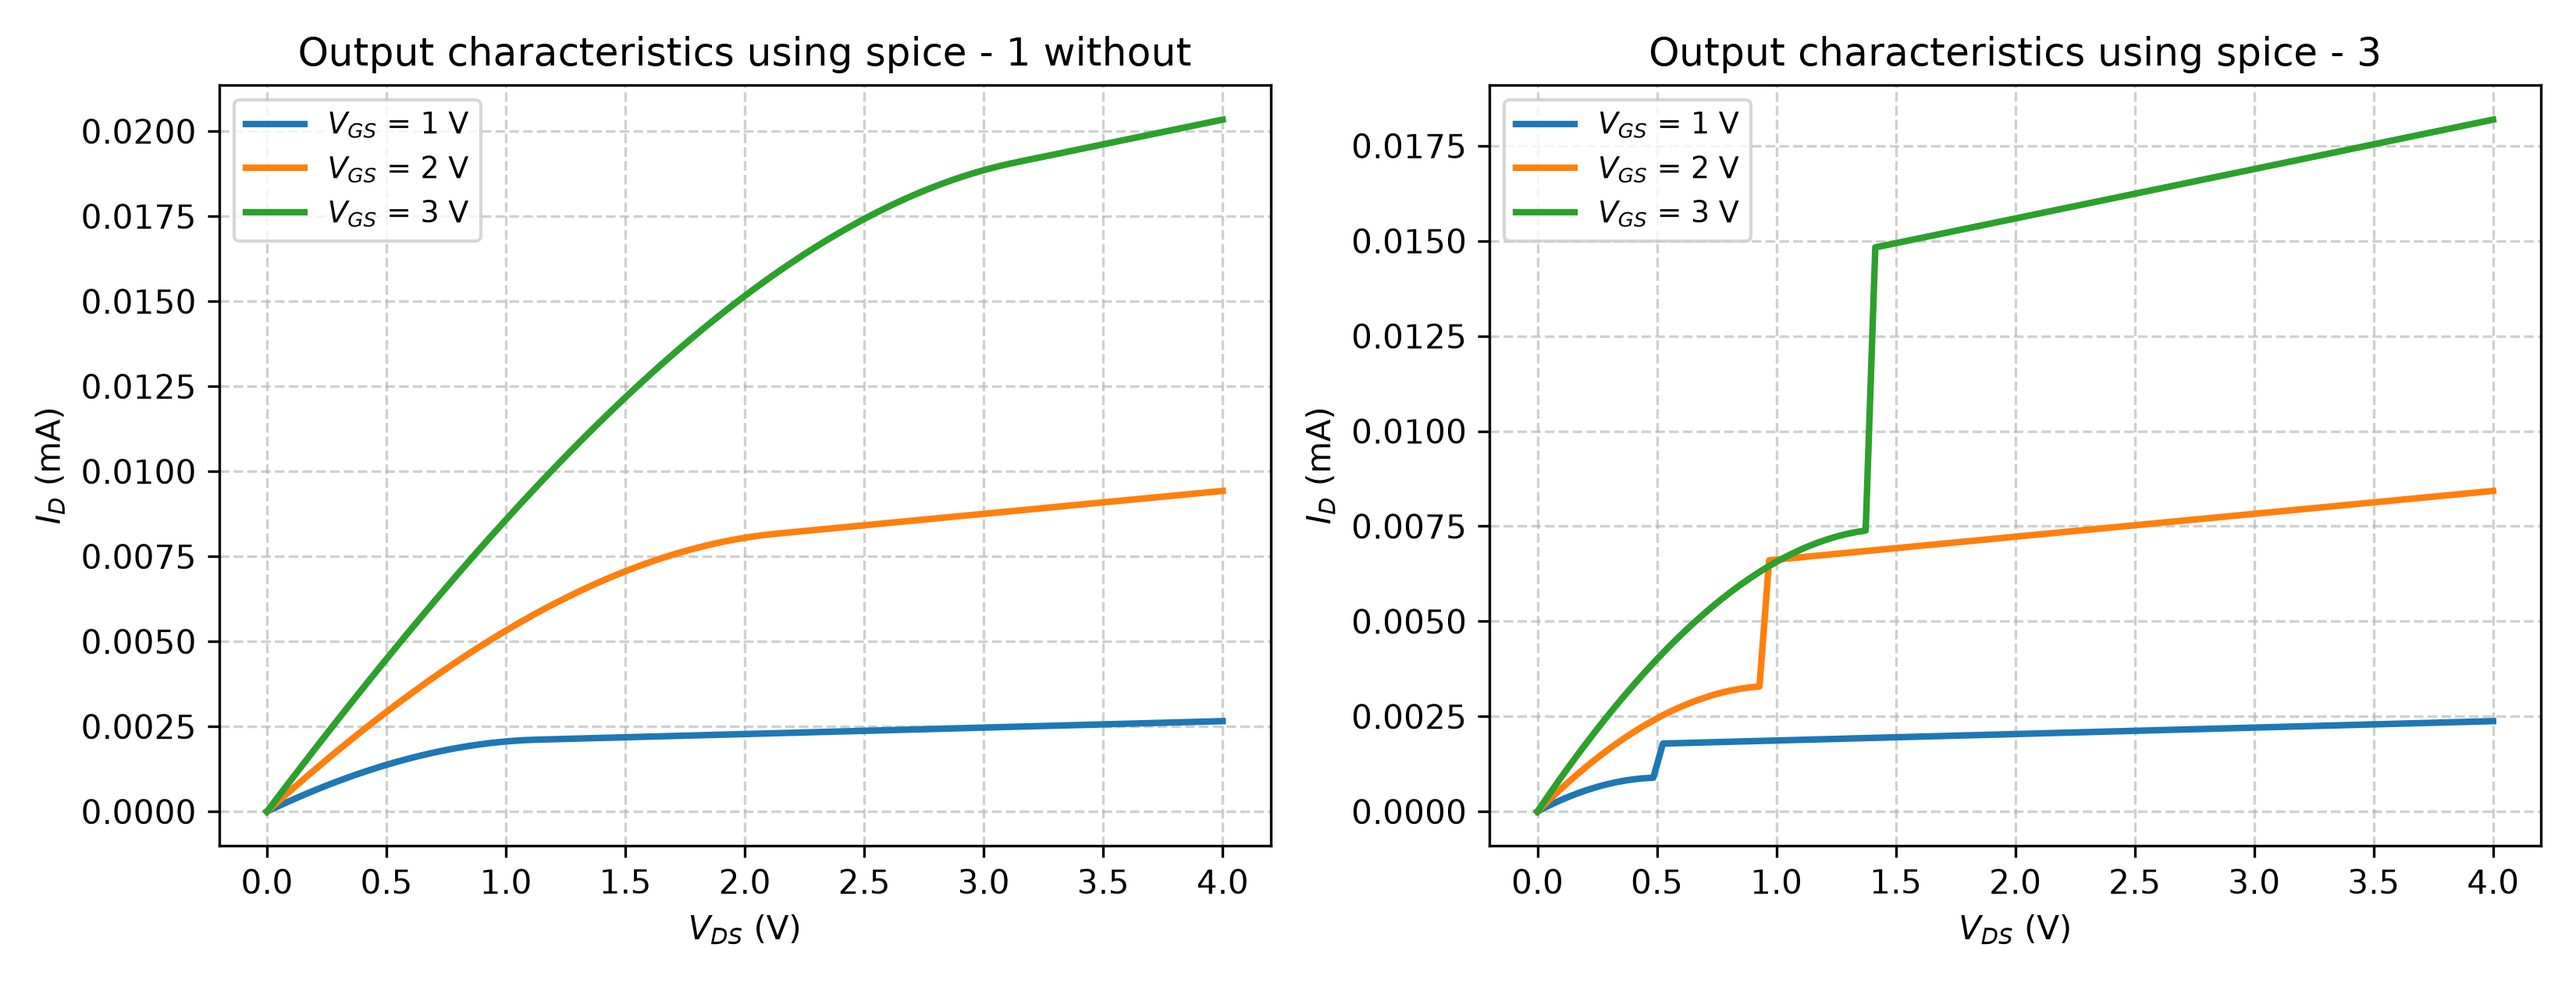
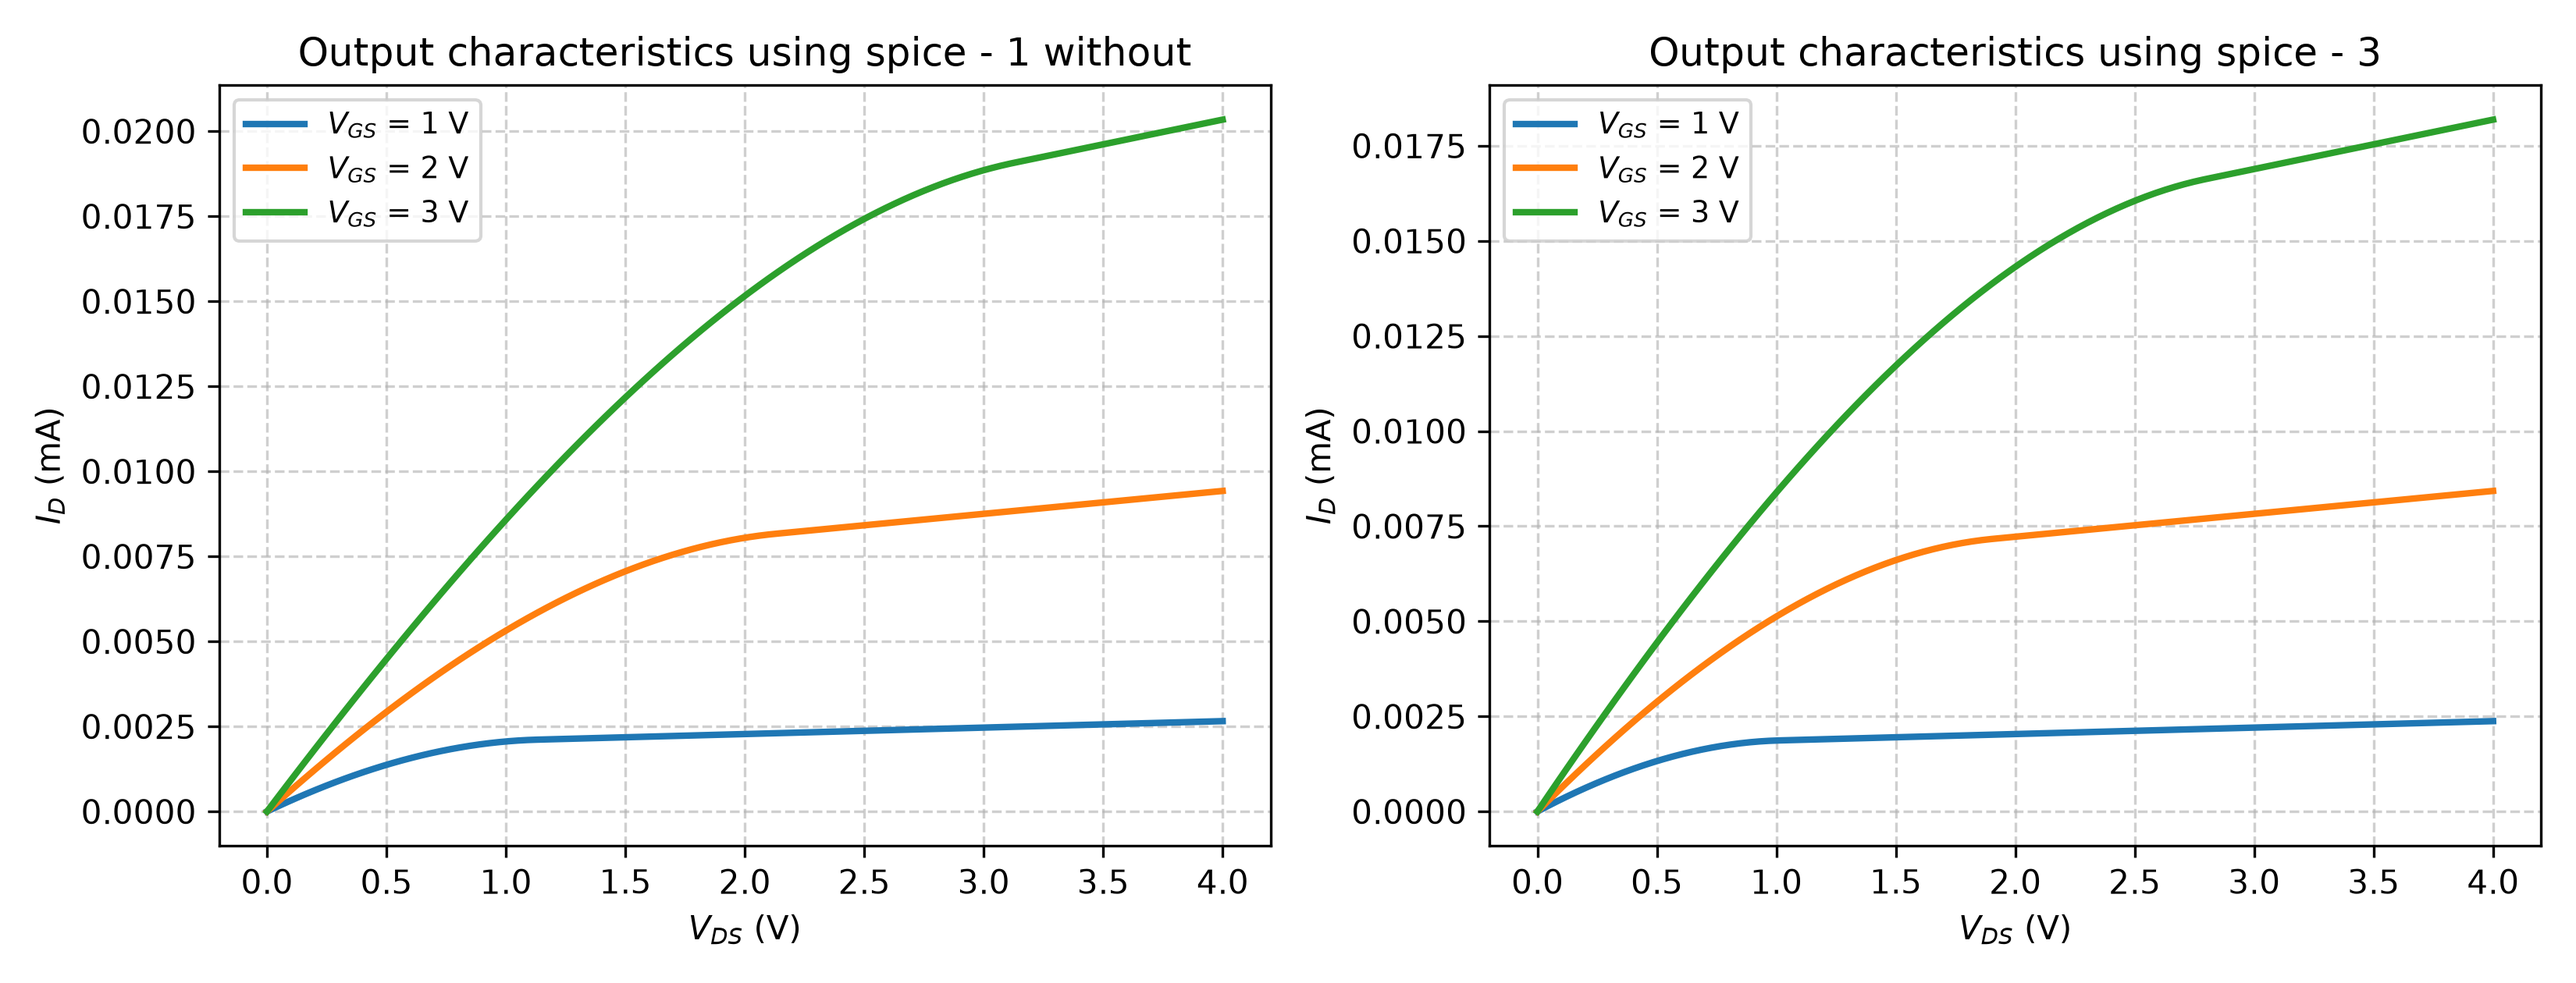
fixed t12 graph using spice - 3

diff --git a/t12.py b/t12.py
@@ -66,10 +66,10 @@ print(f"alpha = {alpha:.3f}")
 for v_gs in vGs:
     for v_ds in vDs:
         # print(((v_gs - vt)/alpha),",", v_ds)
-        if ((v_gs - vt)/(2*alpha))> v_ds:
-            i_d = np.append(i_d, (un * w / L * (cox) * (((v_gs - vt) * v_ds) - (alpha * (v_ds ** 2)))) * (1+lambda_ * v_ds))
+        if ((v_gs - vt)/(alpha))> v_ds:
+            i_d = np.append(i_d, (un * w / L * (cox) *(1+lambda_ * v_ds)* (((v_gs - vt) * v_ds) - (alpha *0.5* (v_ds ** 2)))) )
         else:
-            i_d = np.append(i_d, un * (w /(alpha* 2 * L)) * (cox) * ( (v_gs - vt) ** 2)*(1+lambda_ * v_ds))
+            i_d = np.append(i_d, un * (w /(alpha* 2 * L)) * (cox) * ( (v_gs - vt) ** 2)*(1 + lambda_ * v_ds))
 
     ax[1].plot(vDs, i_d, label=f'$V_{{GS}}$ = {v_gs} V', linewidth=2)
     i_d = np.array([])
